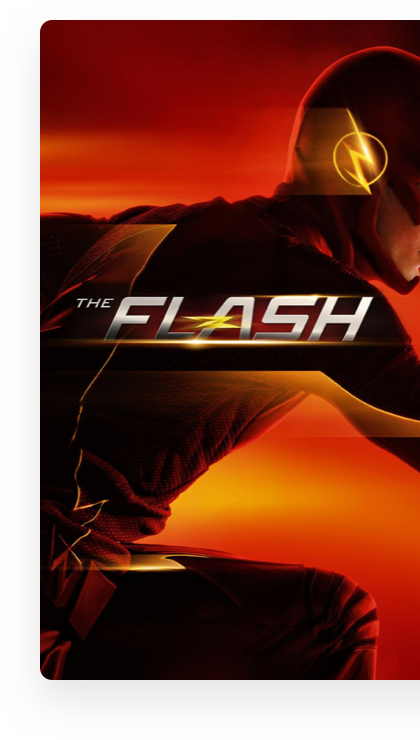
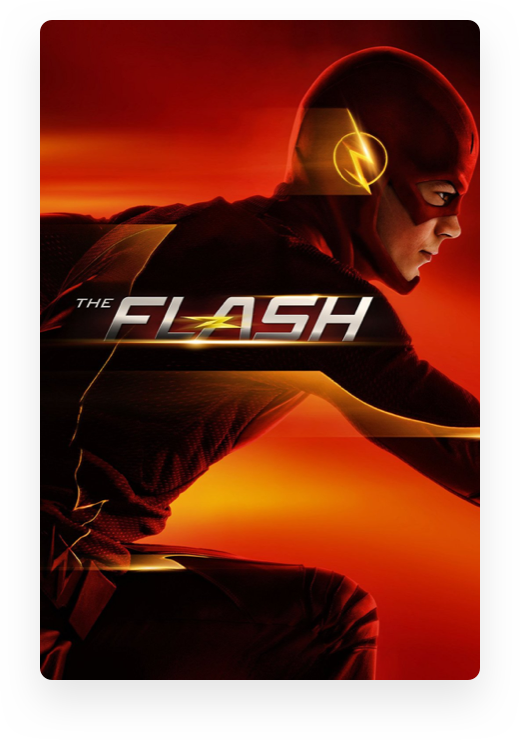
fixed the thumbnails in the tv-shows section

diff --git a/css/style.css b/css/style.css
@@ -39,7 +39,7 @@ img {
   display: none !important; }
 
 .slick-slide {
-  height: 33rem; }
+  height: 26.45rem; }
 
 body {
   font-family: 'Source Sans Pro', sans-serif;
@@ -164,7 +164,7 @@ p {
     left: 1.5rem; }
 
 .tv-shows__thumbnail {
-  height: 33rem !important; }
+  height: 100%; }
 
 .row {
   width: 91.4%;

diff --git a/sass/base/_base.scss b/sass/base/_base.scss
@@ -46,5 +46,5 @@ img {
 }
 
 .slick-slide {
-  height: 33rem;
+  height: 26.45rem;
 }
